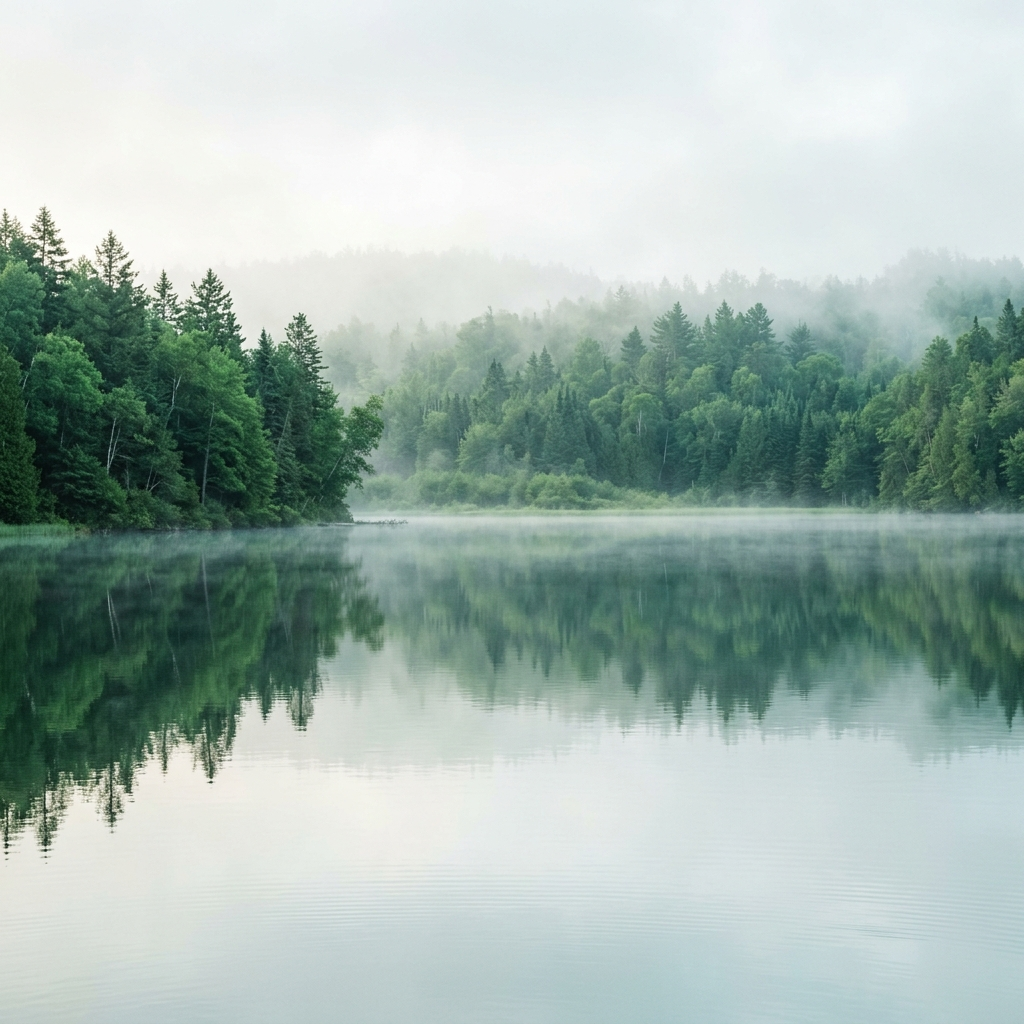
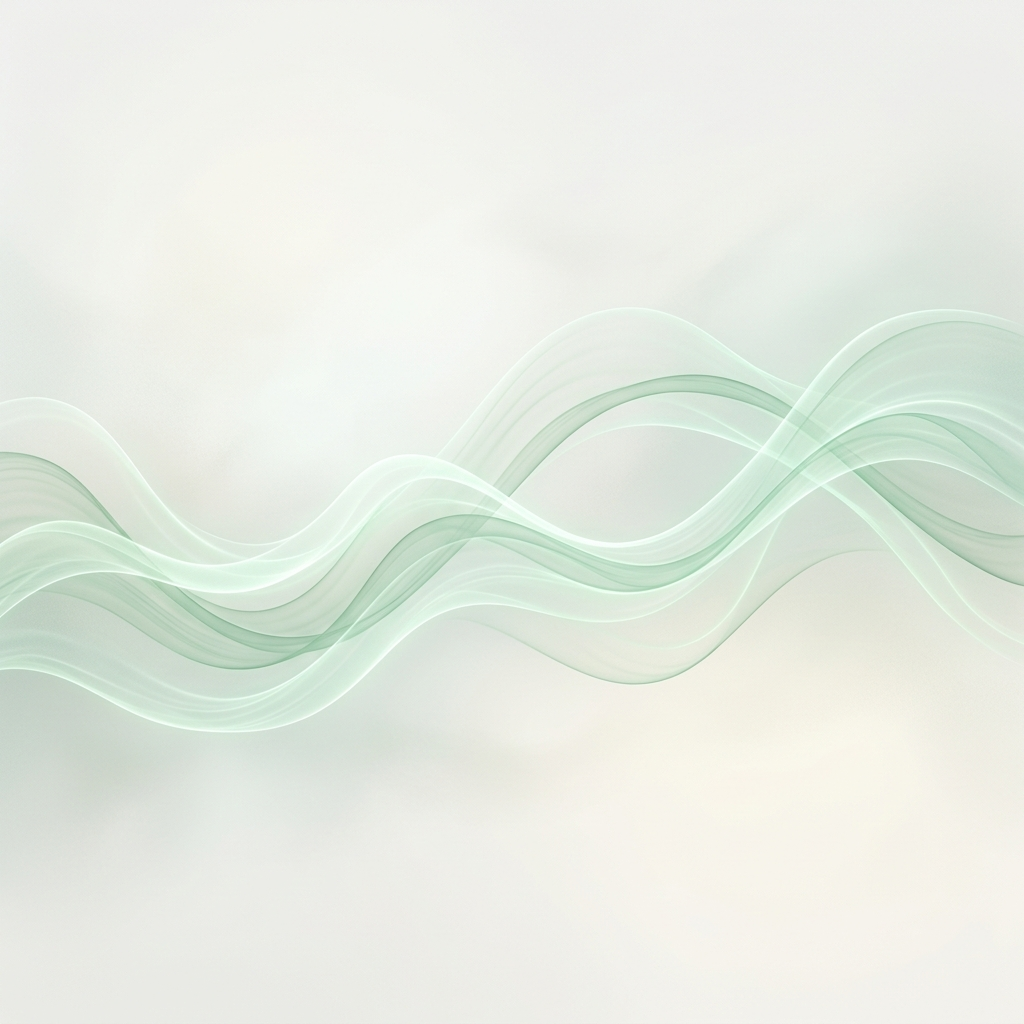
fix: replace agricultural backgrounds with modern abstract glass/neural wellness aesthetic, update fonts

diff --git a/client/src/index.css b/client/src/index.css
@@ -124,8 +124,8 @@ p { color: var(--text-secondary); line-height: 1.7; }
 .t-mono     { font-family: 'DM Mono', monospace; font-size: 0.875rem; }
 .t-italic   { font-style: italic; }
 .t-serif    { font-family: 'Playfair Display', serif; }
-.t-organic  { font-family: 'Chewy', system-ui, sans-serif; font-weight: 400; }
-.t-sans     { font-family: 'DM Sans', sans-serif; }
+.t-organic  { font-family: 'DM Sans', system-ui, sans-serif; font-weight: 500; letter-spacing: -0.02em; }
+.t-sans     { font-family: 'DM Sans', system-ui, sans-serif; }
 .t-muted    { color: var(--text-muted); }
 .t-primary  { color: var(--primary-dark); }
 .t-accent   { color: var(--accent); }
